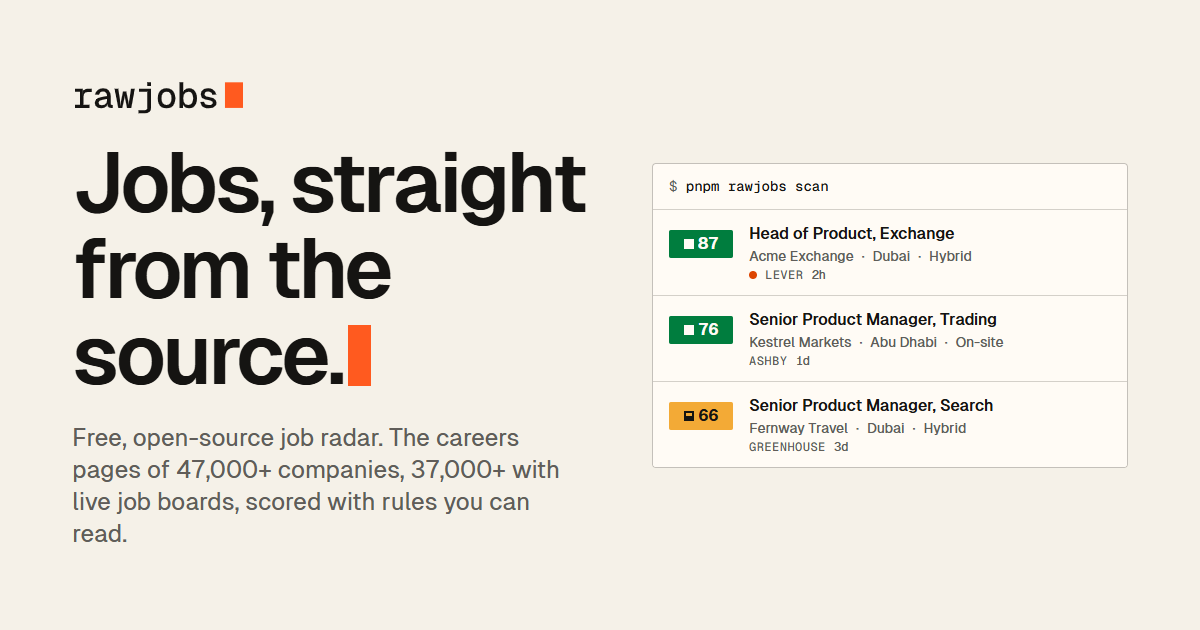
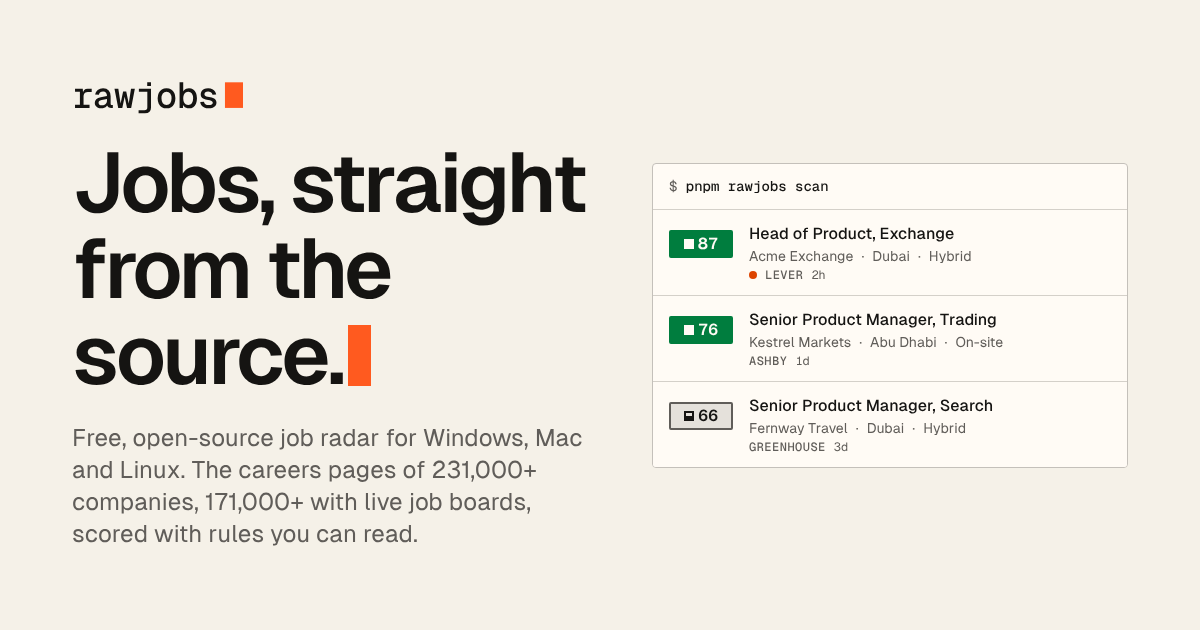
Site: make it clear on phones and tablets that RawJobs needs a computer
A friend opened the site on a phone and couldn't tell RawJobs installs on a
computer. The only phone notice sat in the Get it section, five screens down.

- Phones and tablets (now including iPads, which report a Mac, and Android
  tablets) get a "It's a computer app" note right under the hero text, on
  both pages. On narrow screens the hero puts the text, note and buttons
  before the address wall, so they show on the first screen.
- Every "Get RawJobs" button on phones and tablets reads "Send to my
  computer" ("Send to computer" in the header) and opens the share sheet.
- Copy for everyone: the hero says "your own Windows, Mac or Linux
  computer"; the descriptions, link previews and share image say "for
  Windows, Mac and Linux". The share image is re-rendered (it still said
  47,000+ companies).
- Features page: no more sideways drag on phones, the header no longer
  sticks there, and dashboard screenshots show the whole screen instead of
  cutting words in half. Home page: the hero radar no longer widens the page
  while scrolling on phones.
- Adds an iPhone home-screen icon and alt text for the share image.

Claude-Session: https://claude.ai/code/session_012EhNLbAxKuGBubSmC9Kvcz

diff --git a/apps/site/src/index.html b/apps/site/src/index.html
@@ -4,20 +4,23 @@
 <meta charset="utf-8">
 <meta name="viewport" content="width=device-width, initial-scale=1, viewport-fit=cover">
 <title>RawJobs: jobs, straight from the source</title>
-<meta name="description" content="RawJobs finds jobs on the careers pages of __COMPANIES_ROUND__ companies and scores each one with rules you can read. Free, open source, and it runs on your computer.">
+<meta name="description" content="RawJobs finds jobs on the careers pages of __COMPANIES_ROUND__ companies and scores each one with rules you can read. Free and open source, for Windows, Mac and Linux.">
 <link rel="canonical" href="__SITE_URL__/">
 <meta property="og:type" content="website">
 <meta property="og:site_name" content="RawJobs">
 <meta property="og:title" content="RawJobs: jobs, straight from the source">
-<meta property="og:description" content="Free, open-source job radar. Finds jobs on the careers pages of __COMPANIES_ROUND__ companies and scores every one with rules you can read.">
+<meta property="og:description" content="Free, open-source job radar for Windows, Mac and Linux. Finds jobs on the careers pages of __COMPANIES_ROUND__ companies and scores every one with rules you can read.">
 <meta property="og:url" content="__SITE_URL__/">
 <meta property="og:image" content="__SITE_URL__/og.png">
 <meta property="og:image:width" content="1200">
 <meta property="og:image:height" content="630">
+<meta property="og:image:alt" content="RawJobs: jobs, straight from the source. A list of job matches, each with its score.">
+<meta name="twitter:image:alt" content="RawJobs: jobs, straight from the source. A list of job matches, each with its score.">
 <meta name="twitter:card" content="summary_large_image">
 <meta name="theme-color" content="#f5f1e8" media="(prefers-color-scheme: light)"><!-- design-lint-ignore: bg-canvas, light (metas can't read tokens) -->
 <meta name="theme-color" content="#120f0b" media="(prefers-color-scheme: dark)"><!-- design-lint-ignore: bg-canvas, dark -->
 <link rel="icon" href="/favicon.svg" type="image/svg+xml">
+<link rel="apple-touch-icon" href="/apple-touch-icon.png">
 <link rel="preload" href="/fonts/Geist-400.woff2" as="font" type="font/woff2" crossorigin>
 <link rel="preload" href="/fonts/Geist-600.woff2" as="font" type="font/woff2" crossorigin>
 <script>
@@ -28,6 +31,14 @@
   var more = matchMedia('(prefers-contrast: more)').matches;
   r.setAttribute('data-theme', (dark ? 'dark' : 'light') + (more ? '-hc' : ''));
   r.classList.add('js');
+})();
+</script>
+<script>
+/* Phones and tablets can't run RawJobs (it installs on a computer). iPads report a Mac, so count touch Macs too. */
+(function () {
+  var ua = navigator.userAgent;
+  if (/android|iphone|ipad|ipod|mobile/i.test(ua) || (navigator.maxTouchPoints > 1 && /mac/i.test(navigator.platform)) ||
+      (matchMedia('(pointer: coarse)').matches && matchMedia('(max-width: 760px)').matches)) document.documentElement.setAttribute('data-handheld', '');
 })();
 </script>
 <link rel="preload" href="/fonts/GeistMono-500.woff2" as="font" type="font/woff2" crossorigin>
@@ -192,8 +203,10 @@ h1, h2, h3 { margin: 0; text-wrap: balance; }
 
 /* Phones and narrow tablets: the headline first, then the wall as a band right under it, then the rest. */
 @media (max-width: 760px) {
-  .hero { min-height: 0; display: block; overflow: visible; padding-top: var(--space-8); }
+  .hero { min-height: 0; display: block; overflow: visible; overflow-x: clip; padding-top: var(--space-8); }
   .hero__copy { max-width: none; }
+  .hero__copy > .wall { order: 1; }
+  .hero__copy > .hero__note { order: 2; }
   .wall { position: relative; inset: auto; height: 290px; margin: 0 calc(-1 * var(--gutter)); --clear: 0%; }
   .wall__hosts { bottom: 64px; gap: var(--space-1) 14px; font-size: 0.6875rem; line-height: 1.125rem; padding: var(--space-2) var(--gutter);
     -webkit-mask-image: linear-gradient(transparent 0, black 14px, black 72%, transparent 100%); mask-image: linear-gradient(transparent 0, black 14px, black 72%, transparent 100%); }
@@ -400,6 +413,11 @@ label.rj-chip:has(input:focus-visible) { outline: 2px solid var(--focus-ring); o
 .get[data-os="win"] [data-only]:not([data-only~="win"]),
 .get[data-os="mac"] [data-only]:not([data-only~="mac"]),
 .get[data-os="linux"] [data-only]:not([data-only~="linux"]) { display: none !important; }
+
+/* Phones and tablets: say early that RawJobs is a computer app (data-handheld is set in <head>). */
+.handheld-note { display: none; padding: var(--space-4); border: 1px solid var(--border-default); border-radius: var(--radius-md); background: var(--bg-raised); font: var(--text-small); color: var(--text-secondary); text-wrap: pretty; }
+.handheld-note b { color: var(--text-primary); font-weight: 500; }
+[data-handheld] .handheld-note { display: block; }
 
 .handoff { display: none; gap: var(--space-3); padding: var(--space-4); margin-bottom: var(--space-6); border: 1px solid var(--border-default); border-radius: var(--radius-md); background: var(--bg-raised); }
 .handoff[data-show] { display: grid; }
@@ -1374,7 +1392,7 @@ h1 .serif, h2 .serif { font-size: 1.08em; line-height: 0; }
         <svg class="rj-icon" viewBox="0 0 24 24" aria-hidden="true"><path d="M15 22v-4a4.8 4.8 0 0 0-1-3.5c3 0 6-2 6-5.5.08-1.25-.27-2.48-1-3.5.28-1.15.28-2.35 0-3.5 0 0-1 0-3 1.5-2.64-.5-5.36-.5-8 0C6 2 5 2 5 2c-.3 1.15-.3 2.35 0 3.5A5.403 5.403 0 0 0 4 9c0 3.5 3 5.5 6 5.5-.39.49-.68 1.05-.85 1.65-.17.6-.22 1.23-.15 1.85v4"/><path d="M9 18c-4.51 2-5-2-7-2"/></svg>
         Star on GitHub<!--__STARS__-->
       <span class="rj-sr"> (opens in a new tab)</span></a>
-      <a class="rj-btn rj-btn--primary" href="#get">Get RawJobs</a>
+      <a class="rj-btn rj-btn--primary" href="#get" data-cta-short>Get RawJobs</a>
     </div>
   </div>
 </header>
@@ -1397,7 +1415,8 @@ h1 .serif, h2 .serif { font-size: 1.08em; line-height: 0; }
         <div class="wall__tip" id="wall-tip" role="tooltip" hidden></div>
         <p class="wall__meter"><strong id="wall-count" class="num">__COMPANIES__</strong> <span id="wall-label">careers pages in the directory</span></p>
       </div>
-      <p class="hero__lede" data-step style="--i:3">RawJobs reads companies' own careers pages, ranks every job by how well it fits you, and sends you straight to apply. Free, and it runs on your computer.</p>
+      <p class="hero__lede" data-step style="--i:3">RawJobs reads companies' own careers pages, ranks every job by how well it fits you, and sends you straight to apply. Free, and it runs on your own Windows, Mac or Linux computer.</p>
+      <p class="handheld-note" role="note"><b>It's a computer app.</b> RawJobs installs on Windows, Mac or Linux. It won't run on a phone or tablet, so send yourself the link. Once it's set up, new matches can come to your phone on Telegram.</p>
       <div class="hero__ctas" data-step style="--i:4">
         <a class="rj-btn rj-btn--primary btn-lg" href="#get">
           <span data-cta>Get RawJobs</span>
@@ -1406,7 +1425,7 @@ h1 .serif, h2 .serif { font-size: 1.08em; line-height: 0; }
         <a class="rj-btn btn-lg" href="https://github.com/Tanmay-Mhatre/rawjobs" target="_blank" rel="noopener">Star on GitHub<!--__STARS__--><span class="rj-sr"> (opens in a new tab)</span></a>
       </div>
       <p class="hero__note" data-step style="--i:5">
-        <span><i class="rj-glyph rj-glyph--full" style="color:var(--success-text)" aria-hidden="true"></i>Windows, Mac and Linux</span>
+        <span><i class="rj-glyph rj-glyph--full" style="color:var(--success-text)" aria-hidden="true"></i>Installs in about a minute</span>
         <span><i class="rj-glyph rj-glyph--full" style="color:var(--success-text)" aria-hidden="true"></i>No account</span>
         <span><i class="rj-glyph rj-glyph--full" style="color:var(--success-text)" aria-hidden="true"></i>Scores you can read</span>
       </p>
@@ -1677,7 +1696,7 @@ h1 .serif, h2 .serif { font-size: 1.08em; line-height: 0; }
     </div>
 
     <div class="handoff" id="handoff" role="note">
-      <p><b>You're on a phone.</b> RawJobs runs on a Windows, Mac or Linux computer. Send yourself this page and open it there.</p>
+      <p><b>You're on a phone or tablet.</b> RawJobs runs on a Windows, Mac or Linux computer. Send yourself this page and open it there.</p>
       <div class="handoff__btns">
         <button class="rj-btn rj-btn--primary" type="button" id="share-link" hidden>Send to my computer</button>
         <a class="rj-btn" id="mail-link" href="mailto:?subject=Install%20RawJobs&amp;body=Open%20this%20on%20your%20computer%3A%20__SITE_URL__%2F%23get">Email me the link</a>
@@ -2294,7 +2313,7 @@ h1 .serif, h2 .serif { font-size: 1.08em; line-height: 0; }
     if (/linux|x11|cros/i.test(p)) return 'linux';
     return 'win';
   }
-  var isPhone = /android|iphone|ipod|mobile/i.test(navigator.userAgent) || (matchMedia('(pointer: coarse)').matches && matchMedia('(max-width: 760px)').matches);
+  var isPhone = document.documentElement.hasAttribute('data-handheld');
   var os = detectOS(), copied = false;
 
   var VERSION = '__SHOWN_VERSION__';
@@ -2398,8 +2417,22 @@ h1 .serif, h2 .serif { font-size: 1.08em; line-height: 0; }
   /* the buttons that lead here say which computer, once we know it (not on a phone) */
   if (!isPhone) $$('[data-cta]').forEach(function (el) { el.textContent = 'Get RawJobs for ' + OS_NAME[os]; });
 
+  /* phones and tablets: the buttons that lead to the install send the page to a computer instead */
+  function handheldCtas(href) {
+    Array.prototype.forEach.call(document.querySelectorAll('[data-cta]'), function (el) { el.textContent = 'Send to my computer'; });
+    Array.prototype.forEach.call(document.querySelectorAll('[data-cta-short]'), function (el) { el.textContent = 'Send to computer'; });
+    if (!navigator.share) return;
+    Array.prototype.forEach.call(document.querySelectorAll('a[href="' + href + '"]'), function (a) {
+      if (!a.querySelector('[data-cta]') && !a.hasAttribute('data-cta-short')) return;
+      a.addEventListener('click', function (e) {
+        e.preventDefault();
+        navigator.share({ title: 'Install RawJobs', text: 'Open this on your computer to install RawJobs.', url: location.origin + '/#get' }).catch(function () {});
+      });
+    });
+  }
   /* phones: RawJobs installs on a computer, so offer to send the page there */
   if (isPhone) {
+    handheldCtas('#get');
     $('#handoff').setAttribute('data-show', '');
     var showSteps = $('#show-steps');
     get.setAttribute('data-phone', ''); showSteps.hidden = false;

diff --git a/apps/site/src/features.html b/apps/site/src/features.html
@@ -4,20 +4,23 @@
 <meta charset="utf-8">
 <meta name="viewport" content="width=device-width, initial-scale=1, viewport-fit=cover">
 <title>Features · RawJobs</title>
-<meta name="description" content="Everything RawJobs does: finds jobs on __COMPANIES_ROUND__ companies' careers pages, scores each one with rules you can read, tracks your applications and alerts you on Telegram. Free, open source, on your computer.">
+<meta name="description" content="Everything RawJobs does: finds jobs on __COMPANIES_ROUND__ companies' careers pages, scores each one with rules you can read, tracks your applications and alerts you on Telegram. Free and open source, for Windows, Mac and Linux.">
 <link rel="canonical" href="__SITE_URL__/features">
 <meta property="og:type" content="website">
 <meta property="og:site_name" content="RawJobs">
 <meta property="og:title" content="Features · RawJobs">
-<meta property="og:description" content="Find, score, track and get alerted. Everything RawJobs does, in one place.">
+<meta property="og:description" content="Find, score, track and get alerted. Everything RawJobs does, free for Windows, Mac and Linux.">
 <meta property="og:url" content="__SITE_URL__/features">
 <meta property="og:image" content="__SITE_URL__/og.png">
 <meta property="og:image:width" content="1200">
 <meta property="og:image:height" content="630">
+<meta property="og:image:alt" content="RawJobs: jobs, straight from the source. A list of job matches, each with its score.">
+<meta name="twitter:image:alt" content="RawJobs: jobs, straight from the source. A list of job matches, each with its score.">
 <meta name="twitter:card" content="summary_large_image">
 <meta name="theme-color" content="#f5f1e8" media="(prefers-color-scheme: light)"><!-- design-lint-ignore: bg-canvas, light (metas can't read tokens) -->
 <meta name="theme-color" content="#120f0b" media="(prefers-color-scheme: dark)"><!-- design-lint-ignore: bg-canvas, dark -->
 <link rel="icon" href="/favicon.svg" type="image/svg+xml">
+<link rel="apple-touch-icon" href="/apple-touch-icon.png">
 <link rel="preload" href="/fonts/Geist-400.woff2" as="font" type="font/woff2" crossorigin>
 <link rel="preload" href="/fonts/Geist-600.woff2" as="font" type="font/woff2" crossorigin>
 <link rel="preload" href="/fonts/InstrumentSerif-Italic.woff2" as="font" type="font/woff2" crossorigin>
@@ -90,7 +93,7 @@ h1, h2, h3 { margin: 0; text-wrap: balance; }
 @media (max-width: 480px) { .nav__cta .rj-btn:not(.rj-btn--primary) { display: none; } }
 
 /* hero */
-.hero { position: relative; padding-block: clamp(56px, 9vw, 120px) clamp(40px, 6vw, 72px); isolation: isolate; }
+.hero { position: relative; overflow-x: clip; padding-block: clamp(56px, 9vw, 120px) clamp(40px, 6vw, 72px); isolation: isolate; }
 .hero::before { content: ""; position: absolute; z-index: -1; width: 900px; height: 900px; right: -320px; top: -360px; border-radius: 50%;
   background: repeating-radial-gradient(circle, transparent 0 89px, var(--glass-line) 89px 90px), radial-gradient(closest-side, var(--signal-glow), transparent); }
 .hero h1 { font: var(--text-display-hero); letter-spacing: -0.05em; margin-top: var(--space-4); max-width: 14ch; }
@@ -197,6 +200,12 @@ h1, h2, h3 { margin: 0; text-wrap: balance; }
 .crop { margin: 0; display: grid; gap: var(--space-2); }
 .crop__frame { height: clamp(180px, 22vw, 260px); border: 1px solid var(--border-default); border-radius: var(--radius-md); overflow: hidden; background: var(--bg-raised); box-shadow: var(--shadow-l1); }
 .crop__frame img { display: block; width: 100%; height: 100%; object-fit: none; object-position: var(--at, 0 0); }
+/* Phones: the full-size crop cuts words in half, so show the whole screen instead. Keep the header out of the way too. */
+@media (max-width: 760px) {
+  .nav { position: relative; }
+  .crop__frame { height: auto; }
+  .crop__frame img { height: auto; object-fit: contain; }
+}
 .crop figcaption { font: var(--text-meta); color: var(--text-secondary); }
 
 /* the reading bar: how far down the page you are */
@@ -213,8 +222,20 @@ h1, h2, h3 { margin: 0; text-wrap: balance; }
   .rv-wait { opacity: 1; }
 }
 @media (forced-colors: active) { .mark span { color: CanvasText; background: none; } .mark i, .bar > span > i { background: CanvasText; forced-color-adjust: none; } }
+/* Phones and tablets: say early that RawJobs is a computer app (data-handheld is set in <head>). */
+.handheld-note { display: none; padding: var(--space-4); border: 1px solid var(--border-default); border-radius: var(--radius-md); background: var(--bg-raised); font: var(--text-small); color: var(--text-secondary); text-wrap: pretty; }
+.handheld-note b { color: var(--text-primary); font-weight: 500; }
+[data-handheld] .handheld-note { display: block; margin-top: var(--space-6); }
 </style>
 <!--__ANALYTICS__-->
+<script>
+/* Phones and tablets can't run RawJobs (it installs on a computer). iPads report a Mac, so count touch Macs too. */
+(function () {
+  var ua = navigator.userAgent;
+  if (/android|iphone|ipad|ipod|mobile/i.test(ua) || (navigator.maxTouchPoints > 1 && /mac/i.test(navigator.platform)) ||
+      (matchMedia('(pointer: coarse)').matches && matchMedia('(max-width: 760px)').matches)) document.documentElement.setAttribute('data-handheld', '');
+})();
+</script>
 </head>
 <body>
 <div class="page rj-root">
@@ -233,7 +254,7 @@ h1, h2, h3 { margin: 0; text-wrap: balance; }
     </nav>
     <div class="nav__cta">
       <a class="rj-btn" href="https://github.com/Tanmay-Mhatre/rawjobs" target="_blank" rel="noopener">Star on GitHub<!--__STARS__--><span class="rj-sr"> (opens in a new tab)</span></a>
-      <a class="rj-btn rj-btn--primary" href="/#get">Get RawJobs</a>
+      <a class="rj-btn rj-btn--primary" href="/#get" data-cta-short>Get RawJobs</a>
     </div>
   </div>
 </header>
@@ -243,7 +264,8 @@ h1, h2, h3 { margin: 0; text-wrap: balance; }
   <div class="wrap">
     <p class="eyebrow">Features</p>
     <h1 id="hero-title">Everything it does, in <em class="serif">one</em> place</h1>
-    <p class="hero__lede">RawJobs finds jobs on the careers pages of __COMPANIES_ROUND__ companies, scores each one with rules you can read, and keeps track of what you apply to. Free, open source, and it all runs on your computer.</p>
+    <p class="hero__lede">RawJobs finds jobs on the careers pages of __COMPANIES_ROUND__ companies, scores each one with rules you can read, and keeps track of what you apply to. Free, open source, and it all runs on your own Windows, Mac or Linux computer.</p>
+    <p class="handheld-note" role="note"><b>It's a computer app.</b> RawJobs installs on Windows, Mac or Linux. It won't run on a phone or tablet, so send yourself the link. Once it's set up, new matches can come to your phone on Telegram.</p>
     <div class="hero__ctas">
       <a class="rj-btn rj-btn--primary btn-lg" href="/#get"><span data-cta>Get RawJobs</span></a>
       <a class="rj-btn btn-lg" href="https://github.com/Tanmay-Mhatre/rawjobs" target="_blank" rel="noopener">Star on GitHub<!--__STARS__--><span class="rj-sr"> (opens in a new tab)</span></a>
@@ -593,7 +615,7 @@ h1, h2, h3 { margin: 0; text-wrap: balance; }
     <div class="final">
       <p class="eyebrow">Get started</p>
       <h2 id="final-title">Your next role may <em class="serif">already</em> be on a careers page</h2>
-      <p>Free, open source, and installed in about a minute.</p>
+      <p>Free, open source, and on your computer in about a minute.</p>
       <div class="hero__ctas" style="margin-top:0">
         <a class="rj-btn rj-btn--primary btn-lg" href="/#get"><span data-cta>Get RawJobs</span></a>
         <a class="rj-btn btn-lg" href="https://github.com/Tanmay-Mhatre/rawjobs" target="_blank" rel="noopener">Star on GitHub<!--__STARS__--><span class="rj-sr"> (opens in a new tab)</span></a>
@@ -647,9 +669,23 @@ h1, h2, h3 { margin: 0; text-wrap: balance; }
   }
   /* the buttons that lead to the install say which computer, as on the home page (not on a phone) */
   var ua = ((navigator.userAgentData && navigator.userAgentData.platform) || navigator.platform || '') + ' ' + navigator.userAgent;
-  var phone = /android|iphone|ipod|mobile/i.test(navigator.userAgent) || (matchMedia('(pointer: coarse)').matches && matchMedia('(max-width: 760px)').matches);
+  var phone = document.documentElement.hasAttribute('data-handheld');
   var osName = /iphone|ipad|ipod|mac/i.test(ua) ? 'Mac' : /win/i.test(ua) ? 'Windows' : /linux|x11|cros/i.test(ua) ? 'Linux' : 'Windows';
   if (!phone) Array.prototype.forEach.call(document.querySelectorAll('[data-cta]'), function (el) { el.textContent = 'Get RawJobs for ' + osName; });
+  /* phones and tablets: the buttons that lead to the install send the page to a computer instead */
+  function handheldCtas(href) {
+    Array.prototype.forEach.call(document.querySelectorAll('[data-cta]'), function (el) { el.textContent = 'Send to my computer'; });
+    Array.prototype.forEach.call(document.querySelectorAll('[data-cta-short]'), function (el) { el.textContent = 'Send to computer'; });
+    if (!navigator.share) return;
+    Array.prototype.forEach.call(document.querySelectorAll('a[href="' + href + '"]'), function (a) {
+      if (!a.querySelector('[data-cta]') && !a.hasAttribute('data-cta-short')) return;
+      a.addEventListener('click', function (e) {
+        e.preventDefault();
+        navigator.share({ title: 'Install RawJobs', text: 'Open this on your computer to install RawJobs.', url: location.origin + '/#get' }).catch(function () {});
+      });
+    });
+  }
+  if (phone) handheldCtas('/#get');
   var links = Array.prototype.slice.call(document.querySelectorAll('.toc a'));
   var sio = new IntersectionObserver(function (es) {
     es.forEach(function (e) {

diff --git a/apps/site/src/og.html b/apps/site/src/og.html
@@ -26,7 +26,7 @@ p { margin: 0; font: var(--text-lede); font-size: 1.5rem; line-height: 2rem; col
   <div class="copy">
     <span class="brand">__WORDMARK__</span>
     <h1>Jobs, straight from the source.<span class="cursor"></span></h1>
-    <p>Free, open-source job radar. The careers pages of __COMPANIES_ROUND__ companies, __LIVE_ROUND__ with live job boards, scored with rules you can read.</p>
+    <p>Free, open-source job radar for Windows, Mac and Linux. The careers pages of __COMPANIES_ROUND__ companies, __LIVE_ROUND__ with live job boards, scored with rules you can read.</p>
   </div>
   <div class="rj-panel rj-feed panel">
     <div class="bar"><span>$ </span><b>pnpm rawjobs scan</b></div>

diff --git a/apps/site/README.md b/apps/site/README.md
@@ -4,7 +4,7 @@ The marketing page at <https://www.rawjobs.workers.dev>. One static HTML page bu
 
 - tokens, fonts and logos from `apps/web/src/design`
 - components (`rj-*` classes) from `design/components/bundle.css`
-- page content in `src/index.html`, the features page in `src/features.html` (served at `/features`; every claim on it comes from the main README, and the examples inside its small mocks say so), the 404 page in `src/404.html` (all three get the tokens and the theme script at build time), static files (the share image) in `public/`
+- page content in `src/index.html`, the features page in `src/features.html` (served at `/features`; every claim on it comes from the main README, and the examples inside its small mocks say so), the 404 page in `src/404.html` (all three get the tokens and the theme script at build time), static files (the share image, the iPhone home-screen icon `apple-touch-icon.png`) in `public/`
 - the install steps in Get it pick the visitor's computer (Windows, Mac, Linux) and show a mock of their screen at each step; its colors imitate those systems, so they are fixed values marked `design-lint-ignore`
 - `/install` redirects to the install steps (`public/_redirects`)
 - the share image, `public/og.png`, is rendered from `src/og.html`: run `pnpm site:og` after changing it
